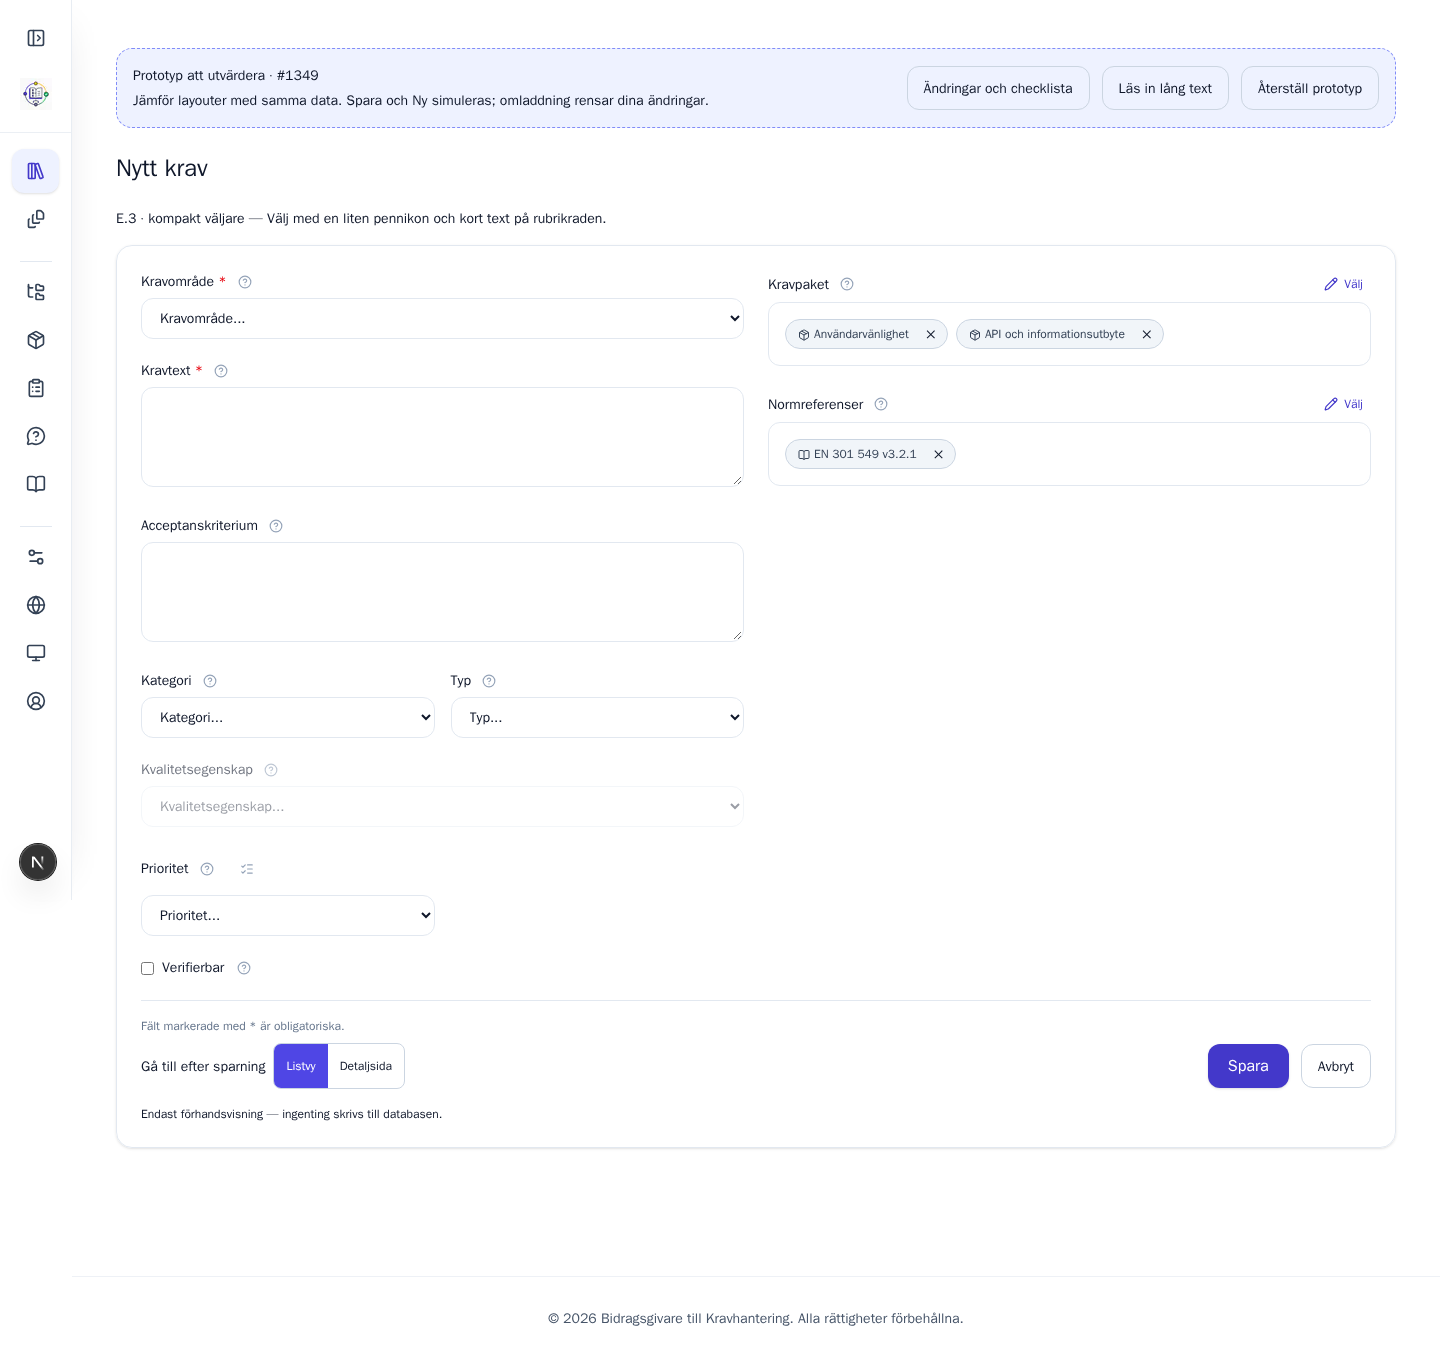
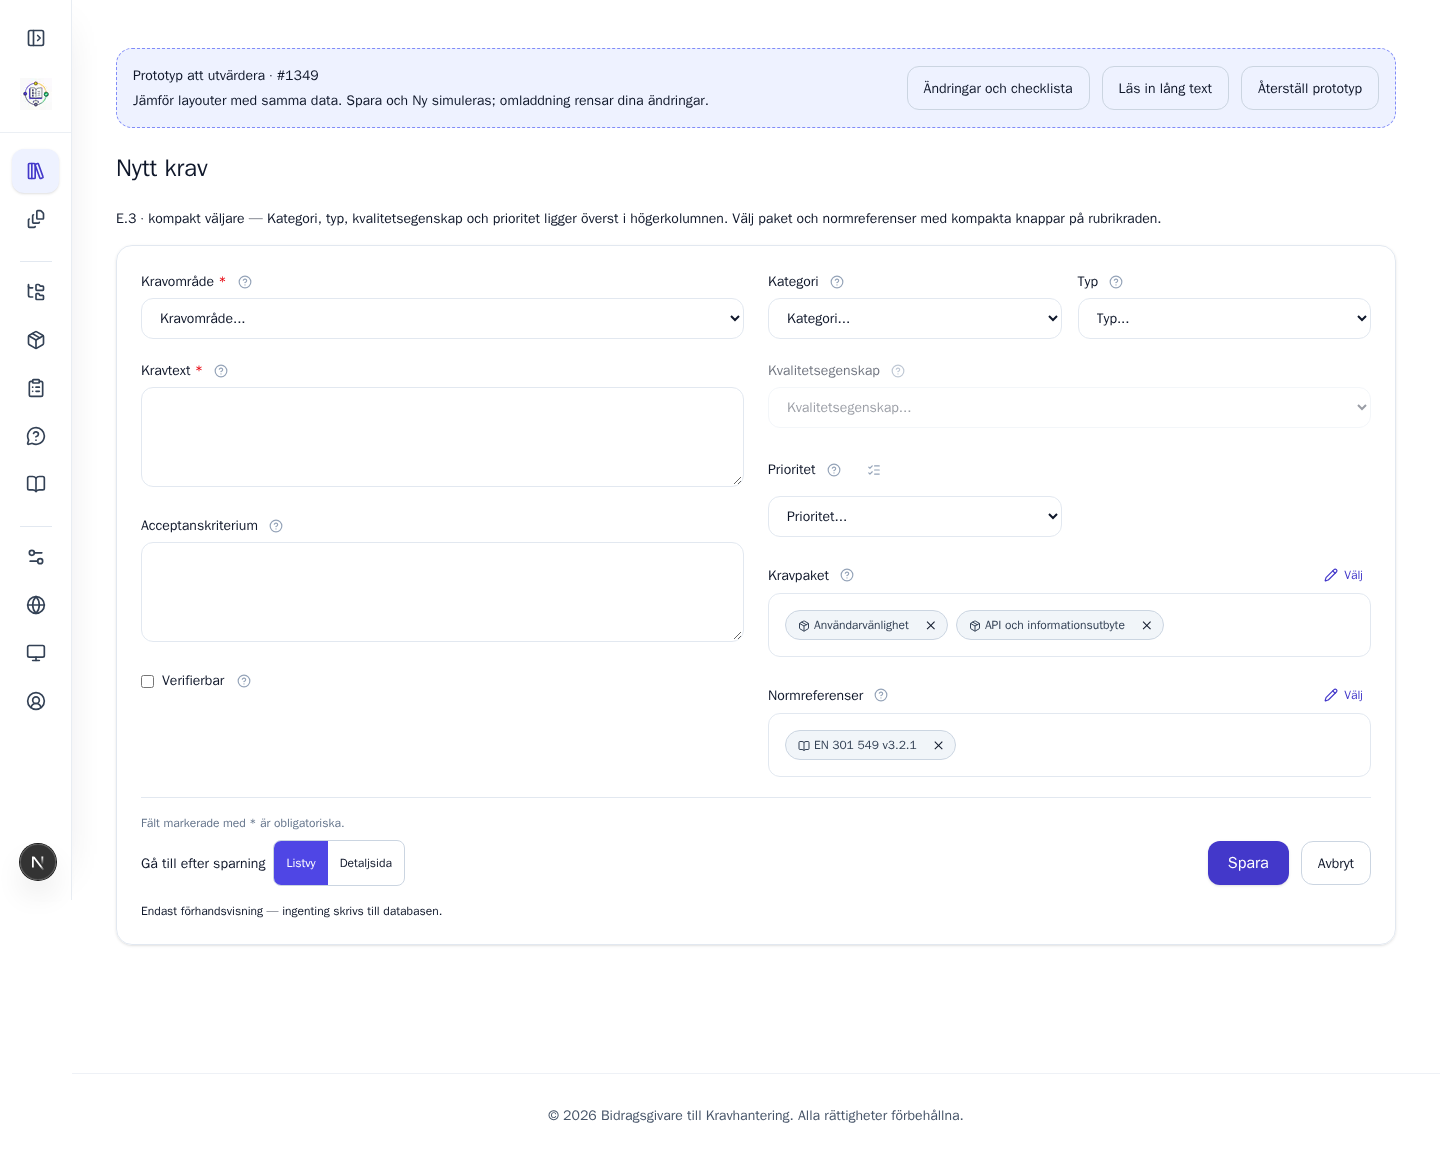
prototype: move E.3 classification and priority above associations

diff --git a/components/RequirementFormFields.tsx b/components/RequirementFormFields.tsx
@@ -56,6 +56,8 @@ export interface RequirementFormFieldsProps {
   /** Extra actions rendered after norm reference list (e.g. "Create" button) */
   normReferenceActions?: ReactNode
   onChange: (values: RequirementFormFieldValues) => void
+  /** Throwaway #1349: move classification and priority above associations in E.3. */
+  prototypeClassificationInSidebar?: boolean
   prototypeNormFieldset?: ReactNode
   /** Throwaway #1349 rendering slots; remove when implementing the chosen design. */
   prototypePackageFieldset?: ReactNode
@@ -92,6 +94,7 @@ export default function RequirementFormFields({
   idPrefix = '',
   layout = 'sidebar',
   normReferenceActions,
+  prototypeClassificationInSidebar = false,
   prototypePackageFieldset,
   prototypeNormFieldset,
   onChange,
@@ -330,84 +333,10 @@ export default function RequirementFormFields({
       ].join('\n')
     : null
 
-  const mainFields = (
+  const classificationInSidebar =
+    prototypeClassificationInSidebar && layout === 'sidebar'
+  const classificationFields = (
     <>
-      {showArea ? (
-        <div>
-          <div className="flex items-center gap-1.5 mb-1">
-            <label className="text-sm font-medium" htmlFor={fid('areaId')}>
-              {t('area')}
-              {areaRequired ? <RequiredFieldMarker /> : null}
-            </label>
-            {helpButton(fid('areaId'), t('area'))}
-          </div>
-          {helpPanel(
-            areaRequired ? 'areaHelp' : 'areaHelpOptional',
-            fid('areaId'),
-          )}
-          <select
-            aria-describedby={
-              catalogIsBlocked('areas') ? referenceDataStatusId : undefined
-            }
-            className={selectClassName}
-            disabled={catalogIsBlocked('areas')}
-            id={fid('areaId')}
-            onChange={e => handleChange('areaId', e.target.value)}
-            required={areaRequired}
-            value={values.areaId}
-          >
-            <option value="">{t('area')}...</option>
-            {areas.map(a => (
-              <option key={a.id} value={a.id}>
-                {a.name}
-              </option>
-            ))}
-          </select>
-          {values.areaId && (
-            <p className="mt-1 text-xs text-secondary-500 dark:text-secondary-400">
-              {t('area')} — {t('areaOwner')}: {selectedAreaOwnerName ?? '—'}
-            </p>
-          )}
-        </div>
-      ) : null}
-
-      <div>
-        <div className="flex items-center gap-1.5 mb-1">
-          <label className="text-sm font-medium" htmlFor={fid('description')}>
-            {t('description')}
-            <RequiredFieldMarker />
-          </label>
-          {helpButton(fid('description'), t('description'))}
-        </div>
-        {helpPanel('descriptionHelp', fid('description'))}
-        <textarea
-          className={textareaClassName}
-          id={fid('description')}
-          onChange={e => handleChange('description', e.target.value)}
-          required
-          value={values.description}
-        />
-      </div>
-
-      <div>
-        <div className="flex items-center gap-1.5 mb-1">
-          <label
-            className="text-sm font-medium"
-            htmlFor={fid('acceptanceCriteria')}
-          >
-            {t('acceptanceCriteria')}
-          </label>
-          {helpButton(fid('acceptanceCriteria'), t('acceptanceCriteria'))}
-        </div>
-        {helpPanel('acceptanceCriteriaHelp', fid('acceptanceCriteria'))}
-        <textarea
-          className={textareaClassName}
-          id={fid('acceptanceCriteria')}
-          onChange={e => handleChange('acceptanceCriteria', e.target.value)}
-          value={values.acceptanceCriteria}
-        />
-      </div>
-
       <div className="grid grid-cols-1 sm:grid-cols-2 gap-4">
         <div>
           <div className="flex items-center gap-1.5 mb-1">
@@ -501,7 +430,6 @@ export default function RequirementFormFields({
           />
         </select>
       </div>
-
       <div className="grid grid-cols-1 sm:grid-cols-2 gap-4">
         <div>
           <div className="flex items-center gap-1.5 mb-1">
@@ -601,6 +529,88 @@ export default function RequirementFormFields({
         </div>
         {extraFieldsAfterPriorityLevel}
       </div>
+    </>
+  )
+
+  const mainFields = (
+    <>
+      {showArea ? (
+        <div>
+          <div className="flex items-center gap-1.5 mb-1">
+            <label className="text-sm font-medium" htmlFor={fid('areaId')}>
+              {t('area')}
+              {areaRequired ? <RequiredFieldMarker /> : null}
+            </label>
+            {helpButton(fid('areaId'), t('area'))}
+          </div>
+          {helpPanel(
+            areaRequired ? 'areaHelp' : 'areaHelpOptional',
+            fid('areaId'),
+          )}
+          <select
+            aria-describedby={
+              catalogIsBlocked('areas') ? referenceDataStatusId : undefined
+            }
+            className={selectClassName}
+            disabled={catalogIsBlocked('areas')}
+            id={fid('areaId')}
+            onChange={e => handleChange('areaId', e.target.value)}
+            required={areaRequired}
+            value={values.areaId}
+          >
+            <option value="">{t('area')}...</option>
+            {areas.map(a => (
+              <option key={a.id} value={a.id}>
+                {a.name}
+              </option>
+            ))}
+          </select>
+          {values.areaId && (
+            <p className="mt-1 text-xs text-secondary-500 dark:text-secondary-400">
+              {t('area')} — {t('areaOwner')}: {selectedAreaOwnerName ?? '—'}
+            </p>
+          )}
+        </div>
+      ) : null}
+
+      <div>
+        <div className="flex items-center gap-1.5 mb-1">
+          <label className="text-sm font-medium" htmlFor={fid('description')}>
+            {t('description')}
+            <RequiredFieldMarker />
+          </label>
+          {helpButton(fid('description'), t('description'))}
+        </div>
+        {helpPanel('descriptionHelp', fid('description'))}
+        <textarea
+          className={textareaClassName}
+          id={fid('description')}
+          onChange={e => handleChange('description', e.target.value)}
+          required
+          value={values.description}
+        />
+      </div>
+
+      <div>
+        <div className="flex items-center gap-1.5 mb-1">
+          <label
+            className="text-sm font-medium"
+            htmlFor={fid('acceptanceCriteria')}
+          >
+            {t('acceptanceCriteria')}
+          </label>
+          {helpButton(fid('acceptanceCriteria'), t('acceptanceCriteria'))}
+        </div>
+        {helpPanel('acceptanceCriteriaHelp', fid('acceptanceCriteria'))}
+        <textarea
+          className={textareaClassName}
+          id={fid('acceptanceCriteria')}
+          onChange={e => handleChange('acceptanceCriteria', e.target.value)}
+          value={values.acceptanceCriteria}
+        />
+      </div>
+
+      {!classificationInSidebar && classificationFields}
 
       <div className="flex items-center gap-2 text-sm">
         <label className="flex items-center gap-2">
@@ -937,6 +947,17 @@ export default function RequirementFormFields({
           className={associationSidebarClassName}
           style={associationSidebarStyle}
         >
+          {classificationInSidebar && (
+            <div
+              className="min-w-0 space-y-5"
+              {...devMarker({
+                name: 'prototype classification fields',
+                value: 'right column',
+              })}
+            >
+              {classificationFields}
+            </div>
+          )}
           {prototypePackageFieldset ?? requirementPackagesFieldset}
           {prototypeNormFieldset ?? normReferencesFieldset}
         </div>

diff --git a/app/[locale]/requirements/new/requirement-form.prototype.css b/app/[locale]/requirements/new/requirement-form.prototype.css
@@ -571,3 +571,13 @@ body:has([aria-modal="true"]) .prototype-1349-review {
 .prototype-1349-association-compact .prototype-1349-empty {
   margin: 0;
 }
+
+/* E.3 keeps classification above both association summaries at every width. */
+.prototype-1349[data-prototype-variant="E.3"]
+  .prototype-1349-fields
+  > div
+  > div
+  > div:last-child {
+  grid-template-rows: auto;
+  grid-template-columns: minmax(0, 1fr);
+}

diff --git a/app/[locale]/requirements/new/requirement-form.prototype.tsx b/app/[locale]/requirements/new/requirement-form.prototype.tsx
@@ -214,6 +214,7 @@ export default function RequirementFormPrototype() {
                   </button>
                 }
                 onChange={setValues}
+                prototypeClassificationInSidebar={variant === 'E.3'}
                 prototypeNormFieldset={
                   modalVariant ? (
                     <PrototypeRequirementAssociations

diff --git a/docs/prototypes/1349/GRANSKNING.md b/docs/prototypes/1349/GRANSKNING.md
@@ -155,11 +155,21 @@ Den gamla länken med `?variant=E` öppnar E.1.
 - [Kontroll av fasta rubriker](sticky-header-inspection.json)
 - [Kontroller för E.2](table-modal-inspection.json)
 
-## E.3: kompakt väljare på rubrikraden
+## E.3: klassificering till höger och kompakt väljare
 
-E.3 använder samma dialoger och grupper som E.2. Skillnaden är hur man
-öppnar dialogerna: en liten pennikon med texten **Välj** ligger till höger
-på samma rad som rubriken. Hjälpknappen finns kvar bredvid rubriken.
+E.3 flyttar **Kategori**, **Typ**, **Kvalitetsegenskap** och **Prioritet**
+till toppen av högerkolumnen, ovanför kravpaket och normreferenser. Kategori och
+Typ delar
+en rad; Kvalitetsegenskap ligger på raden under, följt av Prioritet.
+På mobil staplas fälten i en kolumn, före kravpaket och normreferenser.
+
+Hjälptexter och beroendet mellan Typ och Kvalitetsegenskap följer med.
+Byter man typ rensas den tidigare kvalitetsegenskapen, som tidigare.
+Övriga varianter behåller klassificeringen i vänsterkolumnen.
+
+E.3 använder samma dialoger och grupper som E.2. Dialogerna öppnas med
+en liten pennikon och texten **Välj**, till höger på samma rad som rubriken.
+Hjälpknappen finns kvar bredvid rubriken.
 
 Ingen siffra visas på ikonen. Den separata knappraden och raden med antal
 är borttagna; valda objekt visas som märken under rubriken.
@@ -177,7 +187,16 @@ pixlar per yta. Detta är urvalsytornas höjd; skrivfälten behåller sin höjd.
    återgå till samma knapp. Kontrollera även den separata hjälpknappen.
 5. Upprepa vid 320 pixlars bredd och i mörkt tema. Ikon och text ska
    rymmas på rubrikraden.
+6. Välj kategori, typ, kvalitetsegenskap och prioritet. Växla till E.2 och
+   tillbaka; värdena ska finnas kvar medan fälten byter kolumn.
+7. Byt typ. Den gamla kvalitetsegenskapen ska rensas. Utan vald typ ska
+   fältet för kvalitetsegenskap vara inaktiverat. Prova hjälpknapparna och
+   knappen för prioritetsskalan.
 
+- [E.3 med klassificering till höger](screenshots/E3-classification-1440-light.png)
+- [E.3 med klassificering i mörkt tema](screenshots/E3-classification-1440-dark.png)
+- [Klassificering på mobil](screenshots/E3-classification-320-light.png)
+- [Kontroll av flyttade fält](E3-classification-inspection.json)
 - [E.2 med tomma urvalsytor](screenshots/E2-compact-comparison-empty.png)
 - [E.3 med tomma urvalsytor](screenshots/E3-compact-comparison-empty.png)
 - [E.3 med val](screenshots/E3-compact-1440-light.png)

diff --git a/docs/prototypes/1349/FINDINGS.md b/docs/prototypes/1349/FINDINGS.md
@@ -96,7 +96,14 @@ draft; reopening rebuilds the groups. Cancel discards the draft.
 The user confirmed these decisions during the grilling discussion.
 See [group inspection](group-inspection.json) and the Swedish review guide.
 
-## E.3 compact controls
+## E.3 classification and compact controls
+
+E.3 moves Category, Type, Quality characteristic and Priority above the package
+and norm summaries in the right column. Category and Type share a row, with Quality
+characteristic beneath, followed by Priority. Existing controls, help and options
+are reused. Other variants keep classification in the writing column.
+See [classification inspection](E3-classification-inspection.json) for checks
+of state retention, dependent options and responsive placement.
 
 The confirmed E.3 design places a pencil icon and Select label in the title
 row, with no count badge or separate count row. E.2 remains available for
